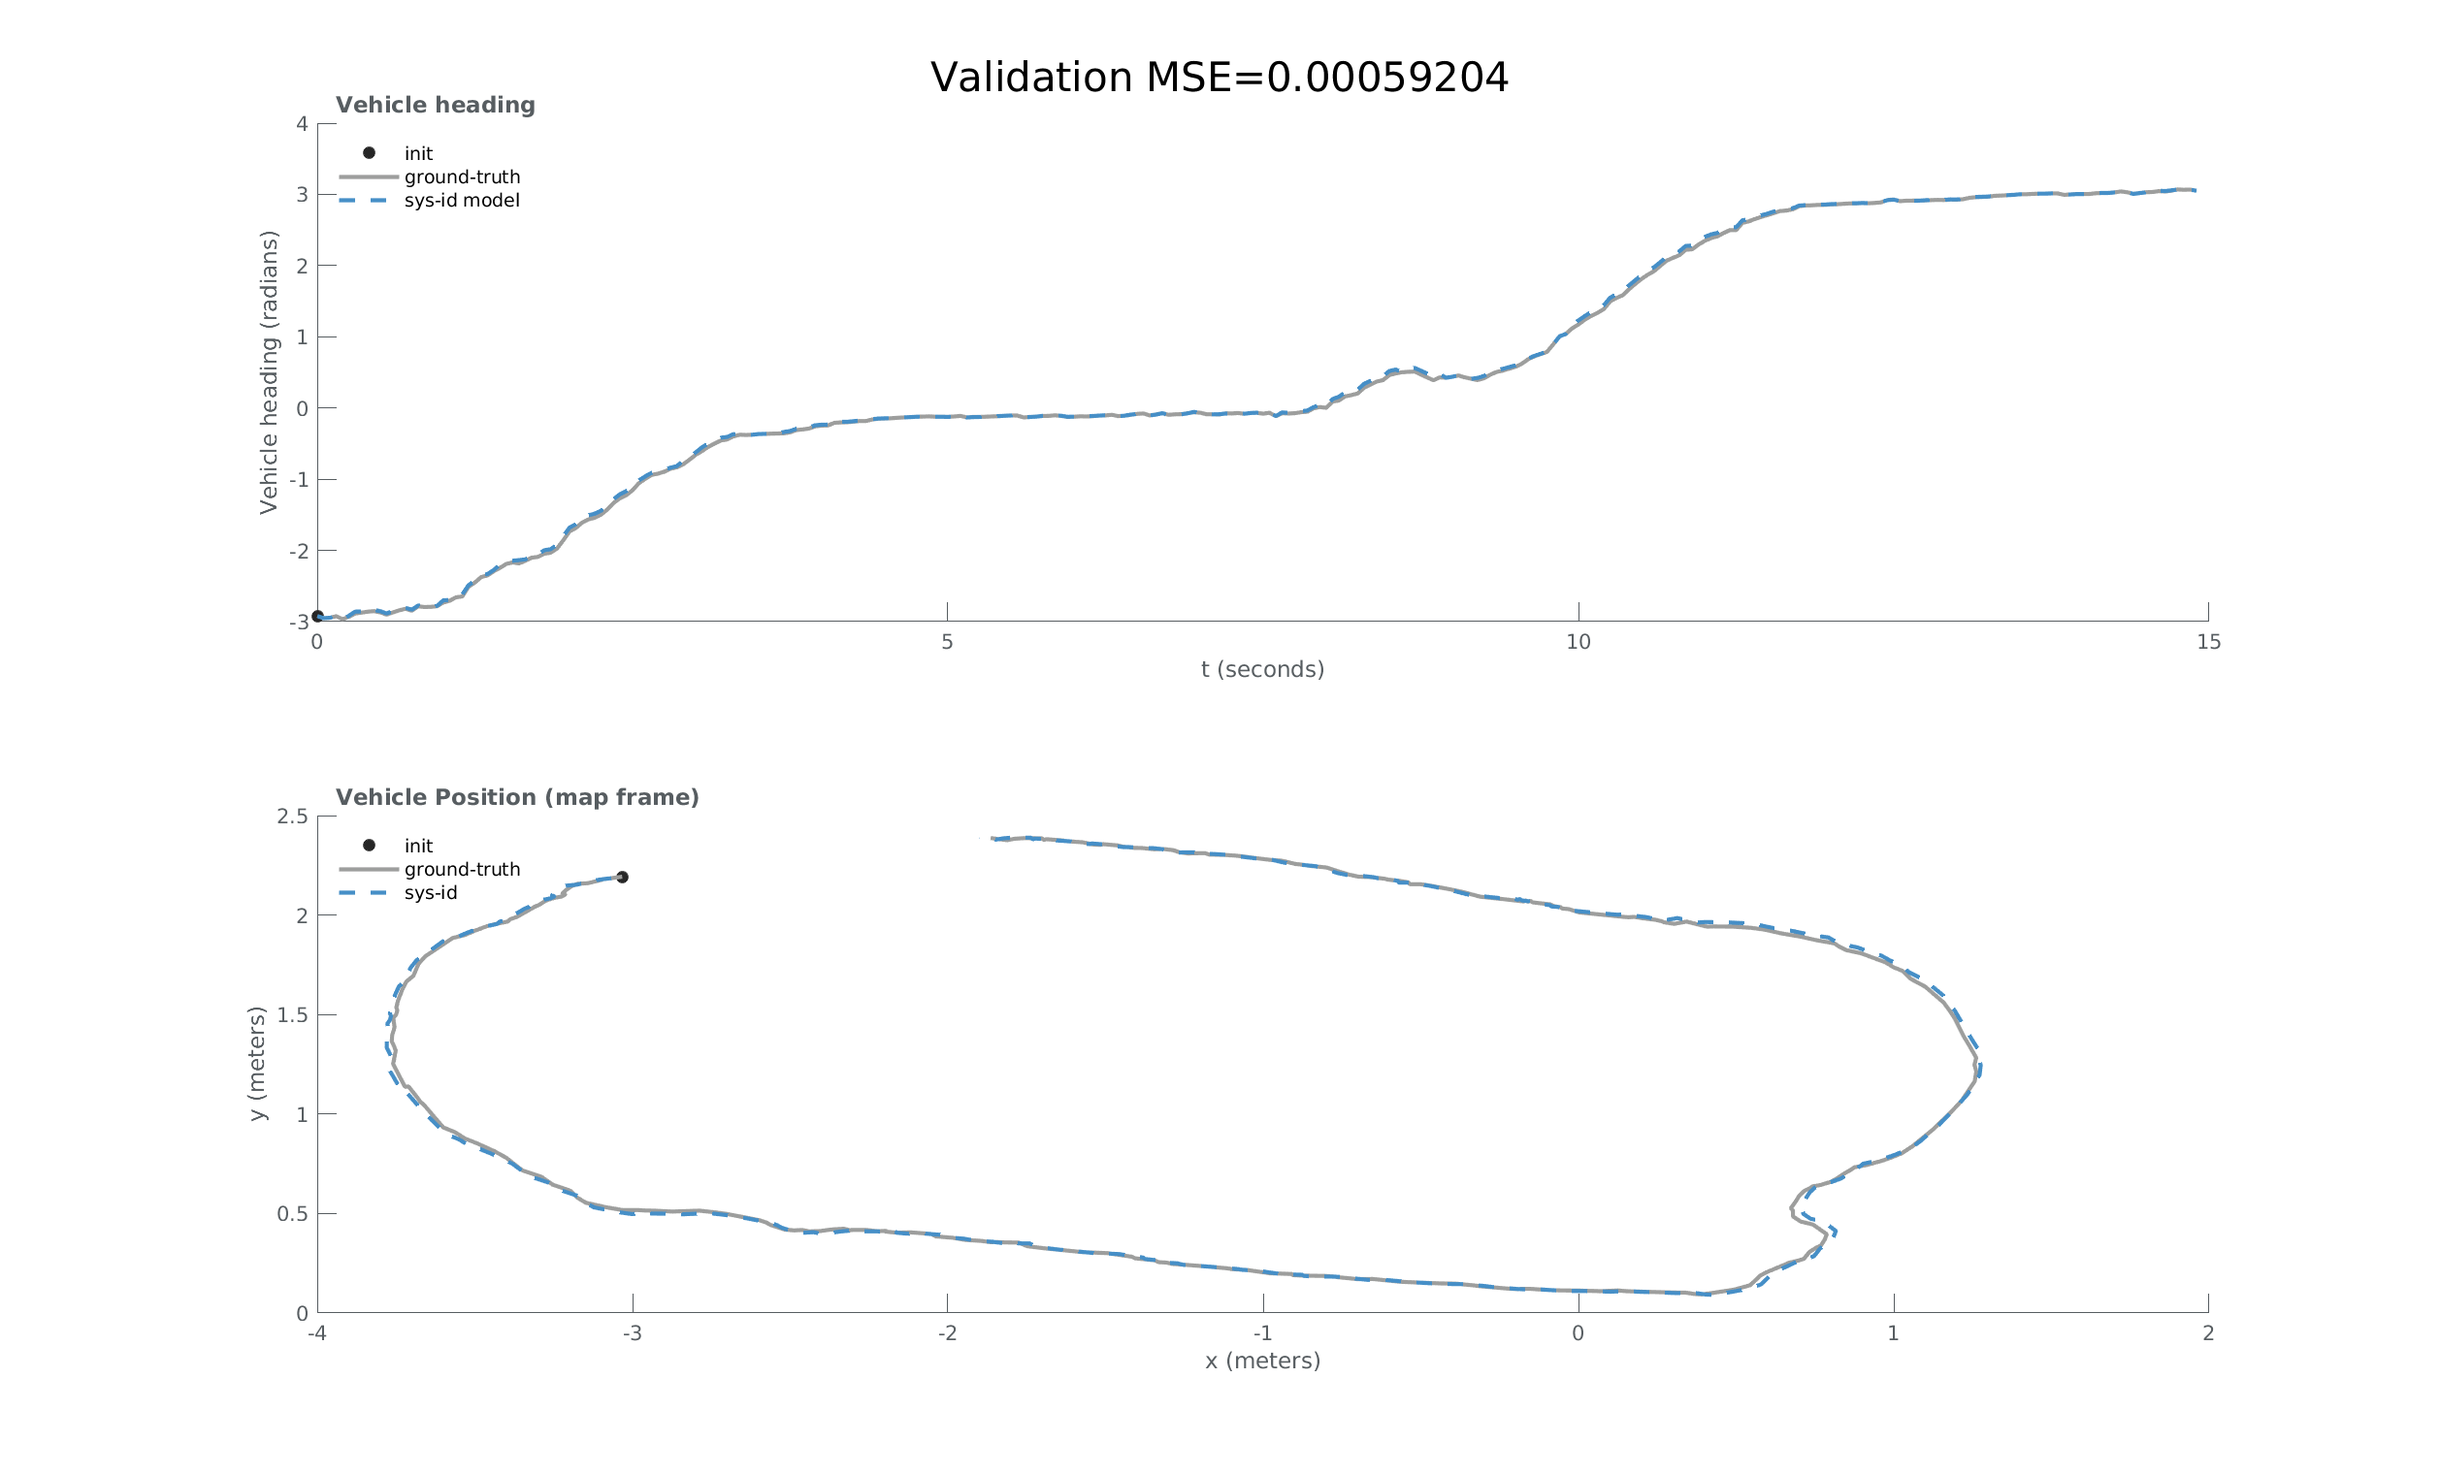
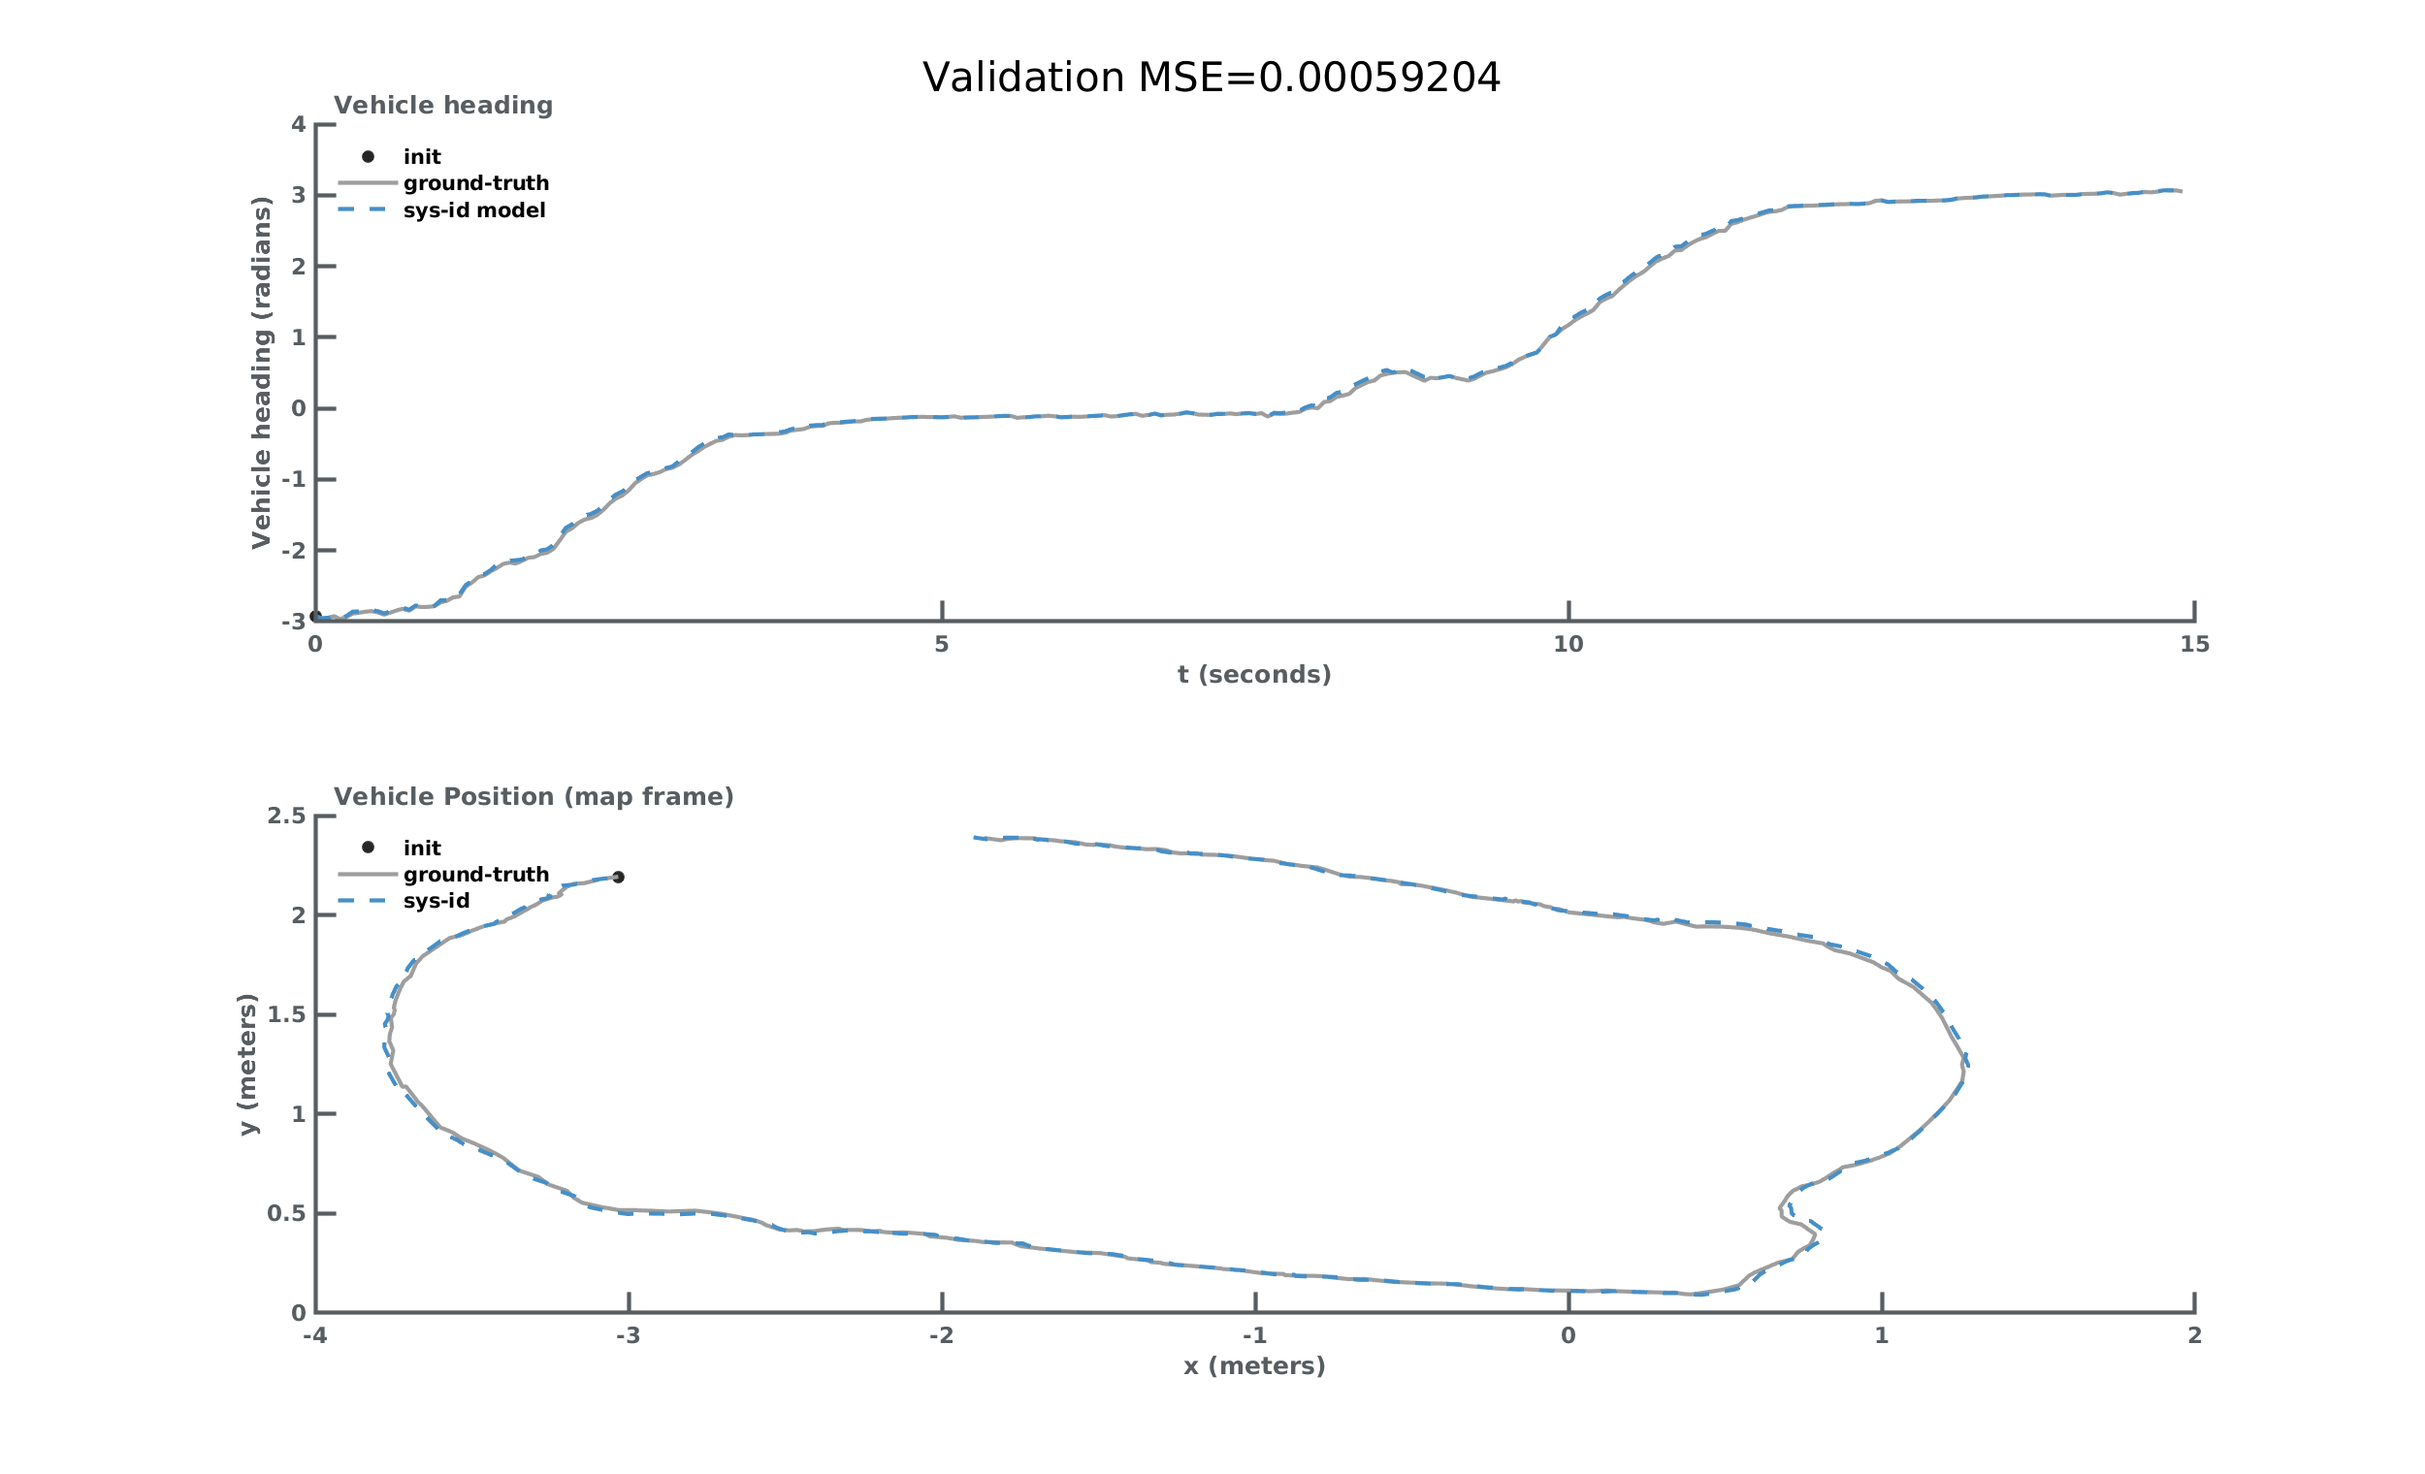
small small changes

diff --git a/src/racecar/sys_id/validate_experiment.m b/src/racecar/sys_id/validate_experiment.m
@@ -48,13 +48,6 @@ legend boxoff
 
 
 subplot(2,2,[3,4]);
-% plot(x(1,:),x(2,:),'DisplayName','ground-truth,gazebo','LineWidth',2)
-% hold on;
-% plot(xe(1,:),xe(2,:),'DisplayName','sys-id model','LineWidth',2)
-% plot(x(1,1),x(2,1),'kx','DisplayName','init','LineWidth',3)
-
-
-
 plot(x(1,1),x(2,1),'*','Color', [38, 38, 38]/255,'DisplayName','init','LineWidth',2);
 hold on 
 plot(x(1,:),x(2,:),'-','Color', [157, 158, 157]/255,'DisplayName','ground-truth','LineWidth',2) ;
@@ -79,12 +72,39 @@ ax.XColor = [87, 93, 97]/255; % Red
 ax.YColor = [87, 93, 97]/255; % Blue
 set(gca,'box','off');
 
-%set(findobj(gcf,'type','axes'),'FontName','Calibri','FontSize',11,'FontWeight','Bold', 'LineWidth', 2,'layer','top');
-
+set(findobj(gcf,'type','axes'),'FontName','Calibri','FontSize',11,'FontWeight','Bold', 'LineWidth', 2,'layer','top');
 sgt =sgtitle(strcat('Validation MSE=',string(err)));
 sgt.FontSize = 20;
 figname = split(strrep(csv_filename,'csv/',''),".");
 savename = strcat("plots/",figname(1),".png");
 saveas(fig,savename);
+
+fig = figure();
+set(gcf,'color','w');
+%set(gcf, 'Position',  [100, 100, 1200, 900])
+plot(x(1,1),x(2,1),'*','Color', [38, 38, 38]/255,'DisplayName','init','LineWidth',2);
+hold on 
+plot(x(1,:),x(2,:),'-','Color', [157, 158, 157]/255,'DisplayName','ground-truth','LineWidth',2) ;
+plot(xe(1,:),xe(2,:),'--','DisplayName','prediction','Color', [70, 143, 199]/255,'LineWidth',2)
+
+hold off;
+xlabel('x (meters)') 
+ylabel('y (meters)') 
+t= title(strcat('Vehicle Position (map frame), MSE=',string(err)),'Color',[87, 93, 97]/255);
+set(t, 'horizontalAlignment', 'left')
+set(t, 'units', 'normalized')
+set(t, 'position', [0.01 1.01 0]);
+
+legend('init','ground-truth','sys-id','Location','northwest')
+legend boxoff 
+ax = gca; % Get handle to current axes.
+ax.XColor = [87, 93, 97]/255; % Red
+ax.YColor = [87, 93, 97]/255; % Blue
+set(gca,'box','off');
+set(findobj(gcf,'type','axes'),'FontName','Calibri','FontSize',11,'FontWeight','Bold', 'LineWidth', 2,'layer','top');
+
+
+
+
 end
 
